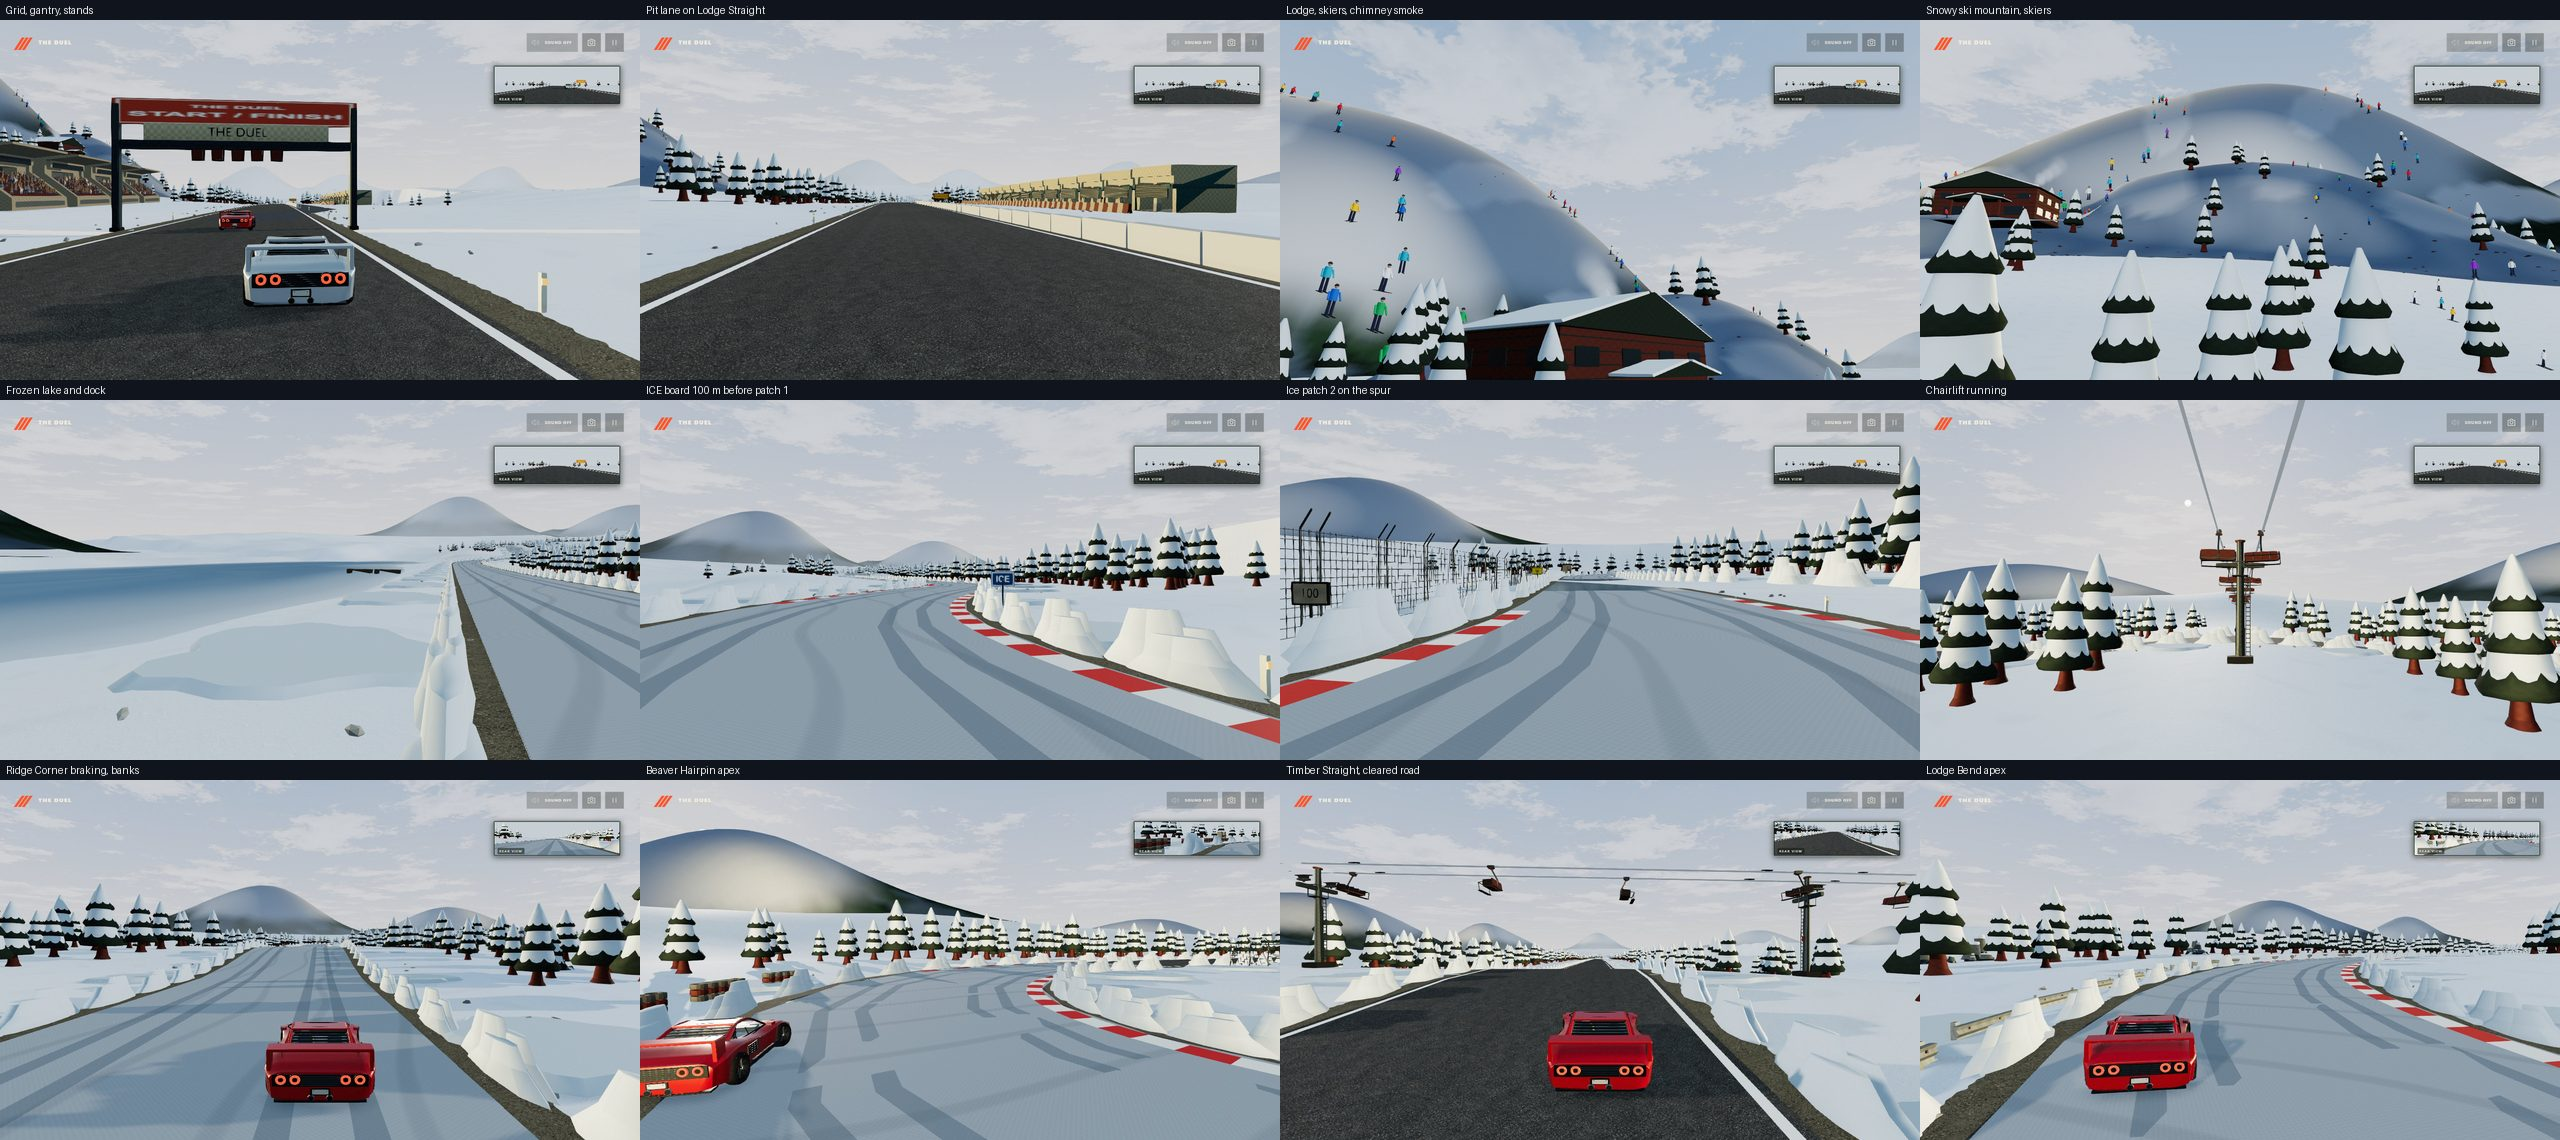
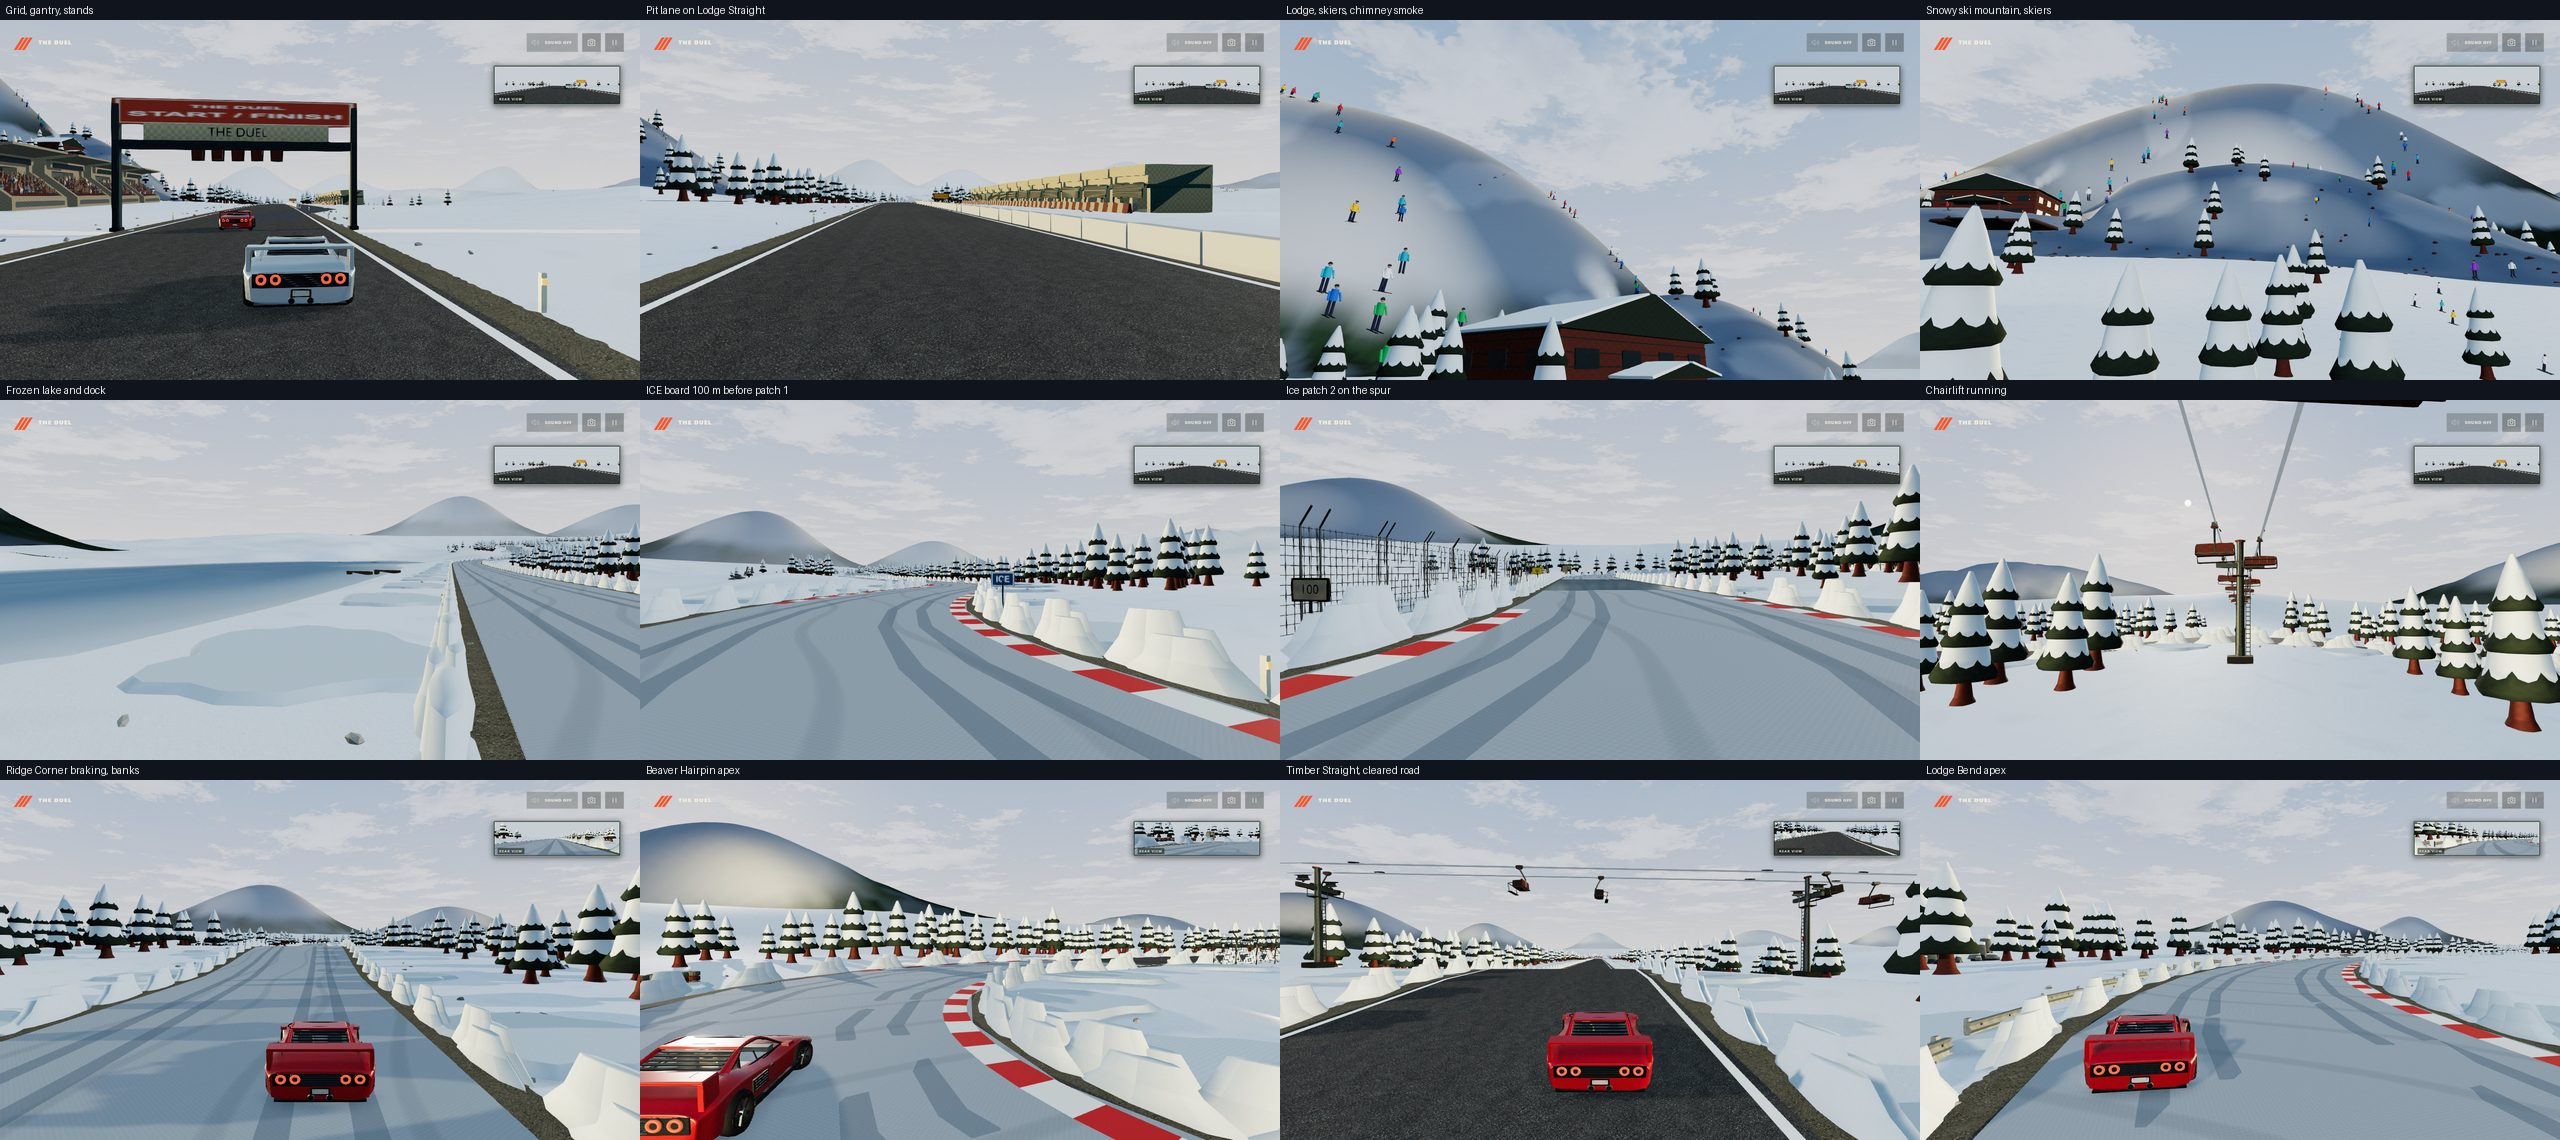
P4-TREMBLANT-SNOW: look sheet after the Tremblant fix, frame check, balance and gate numbers in the change note

diff --git a/docs/changes/P4-TREMBLANT-SNOW.md b/docs/changes/P4-TREMBLANT-SNOW.md
@@ -48,11 +48,11 @@ the live circuit is byte for byte what it was).
 
 ## Checks
 
-- Own suite `tools/test-circuit-tremblant-snow.mjs` (11 tests): registration and switch, same
+- Own suite `tools/test-circuit-tremblant-snow.mjs` (14 tests): registration and switch, same
   road as the autumn circuit, the live circuit untouched, surfaces and tyre choice, ice rules and
   boards, pit lane and boxes, winter on and banks, scenery (no autumn trees, kit pieces clear of
   the road, no pine on a ski run), snowmen unused, skiers and smoke, light, and a full Grand Prix
-  race with all seven computer racers home.
+  race with all seven computer racers home, and the solid barriers.
 - Kit clearance: `node tools/test-track-kits.mjs --validate-circuit src/circuits/tremblant-snow.js`:
   459 High/LOD placements validated.
 - Review tool and landmark pictures: `tools/track-review.mjs` now reviews a winter course on winter
@@ -84,13 +84,50 @@ of races. Targets met: easy 80% (60 to 80), medium 50% (30 to 50), medium and ha
 between runs, 0 to 3 of 30, so a fourth run could land either side). Quick 8-race trials at other
 paces informed the choice; they are not counted as results.
 
+### The Tremblant fix (TREMBLANT-FIX, merged into this lane at 69b3935b)
+
+The snow variant takes the fix's shared code (ribbon ground, hill pads, far-ground blending) and uses
+its options: `farGround: { band: 120 }`, `solid: true` on the same eight kit pieces (barriers, fence,
+pit wall, garages, stands, posts, lift towers), the hill pines sunk 0.35 m. The shared lake bowl
+and dock carry the fix by themselves. Checked, not assumed:
+
+- `tools/test-circuit-ground.mjs` now covers Tremblant Snow too (no ground, hill or water over the
+  road or its shoulder; no piece floating or sunk; the ground behind the lake slopes). The pit
+  garages floated 0.31 to 0.35 m (limit 0.3), so they stand 28 m from the road centre (was 31).
+- Barriers: `tools/test-circuit-tremblant-snow.mjs` has the same checks as `test-circuit-barriers.mjs`
+  for this circuit (solid boxes where drawn, no box in the pit lane, a car on winter tyres driven at
+  seven barrier spots at 70 and 110 mph stops against them).
+- The sheet was made after the merge: the road is clear of grass everywhere (see frames 8 to 10 at
+  Beaver Hairpin).
+- The reference lap rebuilt after the merge is identical (1:28.317).
+
 ### Frame check
 
-FRAME_CHECK_TBD
+`node tools/browser-harness.mjs scenario tremblant-snow` (12 October 2026, after the merge, no other
+gate, build or browser check running, eight cars on the grid, delivered frames):
+
+| | High p50 / p95 | Performance p50 / p95 | Draws High / Performance |
+| --- | --- | --- | --- |
+| Tremblant Snow | 17.7 / 35.9 ms (31 slow of 120) | 17.6 / 18.2 ms (0 slow) | 1,667 / 1,167 |
+| Tremblant Woods, same scenario, same minute | 17.8 / 35.6 ms (19 slow) | 17.6 / 18.2 ms (0 slow) | 1,795 / 1,251 |
+
+**Performance passes (18.2 ms, limit 18.5). High does not (35.9 ms), and neither does the live
+Tremblant Woods in this scenario** (35.1 to 35.6 over five runs): at High the graphics card needs
+about 16 ms of the 16.7 available (scene and shadows 9.4, contact shading 5, post 1.2), so every third
+frame or so slips to 33 ms. Tremblant Snow is no worse than the released circuit, but I could not
+bring High under the limit with the tools at hand (tried: merged garage, stand, lodge and chair
+meshes, which saved about 90 draws; leaving the pines out of the contact pass, which saved nothing and
+was reverted). Claude to decide whether the limit applies to High at this view.
+
+One real cost was found and fixed: the first measurement had High at 35 ms median because the lift
+refreshed the drawn selection of the 3,300 snow pines once per chair, twenty times a frame (renderer
+update 10.4 ms, now 1.9 ms; see the shared-code table).
 
 ### Lane gate
 
-GATE_TBD
+`node tools/run-tests.mjs --tier lane --changed --jobs 4 --keep-going` on the lane after merging integration
+(69b3935b, Tremblant fix) and every change above: **399 of 399 passed, 0 failed, 0 not run**
+(1,308.8 s). `npm run build` passes (511 ms).
 
 ## Changed assertions and the reason for each
 
@@ -102,6 +139,7 @@ No tolerance was loosened and no old replay, signature or save fixture changed.
 | `tools/test-wasteland-beta.mjs` | catalogue without it | `tremblant-snow: dev` | The new switch |
 | `tools/test-circuit-layouts.mjs` | three circuits registered, stages all different (3) | four, stages 4 | The new circuit. The driven-lap tests now start a winter circuit on winter tyres (`driveCircuit` takes a `tyre`), and **the reverse build is not driven for a winter circuit**: its ice, boards and pit lane belong to the forward road, and the reversed Beaver Hairpin on packed snow slid 3 m off the road for the test driver. P4-VARIANTS builds and tests reversed winter circuits with their own surfaces. The forward lap assertions (no crash, no reset, clean laps, lap times) are unchanged and pass |
 | `tools/test-reference-laps.mjs` | 27 references | 28 | The new circuit's reference |
+| `tools/test-circuit-ground.mjs` | Tremblant Woods, Harbour, Panorama | Tremblant Snow added to the cover, floating and slope checks | Same assertions, one more circuit |
 
 ## Removed
 
@@ -112,7 +150,7 @@ start line replaces a case no course had used.
 
 1. **Price** 1,800 credits (not in the doc), and the `docs/COURSE_ACCESS.md` table has no row for it
    (dev only).
-2. Balance: the two misses above.
+2. Balance: the two misses above, and the three runs predate the merge of the Tremblant fix. An informal 10-race trial after it gave test-driver wins of 90 / 50 / 40% (easy / medium / hard) with every racer home, so hard may now be above its target: a further run at your word (hard pace .91 gave 10% earlier).
 3. Merge integration again after TREMBLANT-FIX lands (Kyle's grass and barrier faults on Tremblant
    Woods); this circuit builds none of that ground or barrier code, and the sheet shows the road
    clear of grass everywhere.
